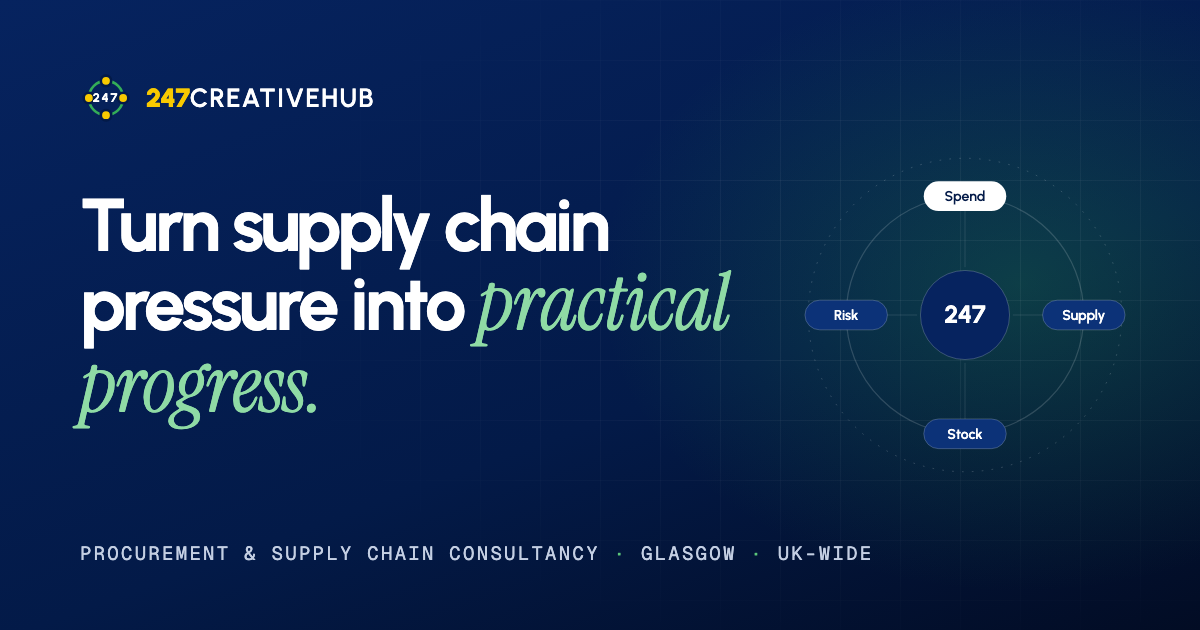
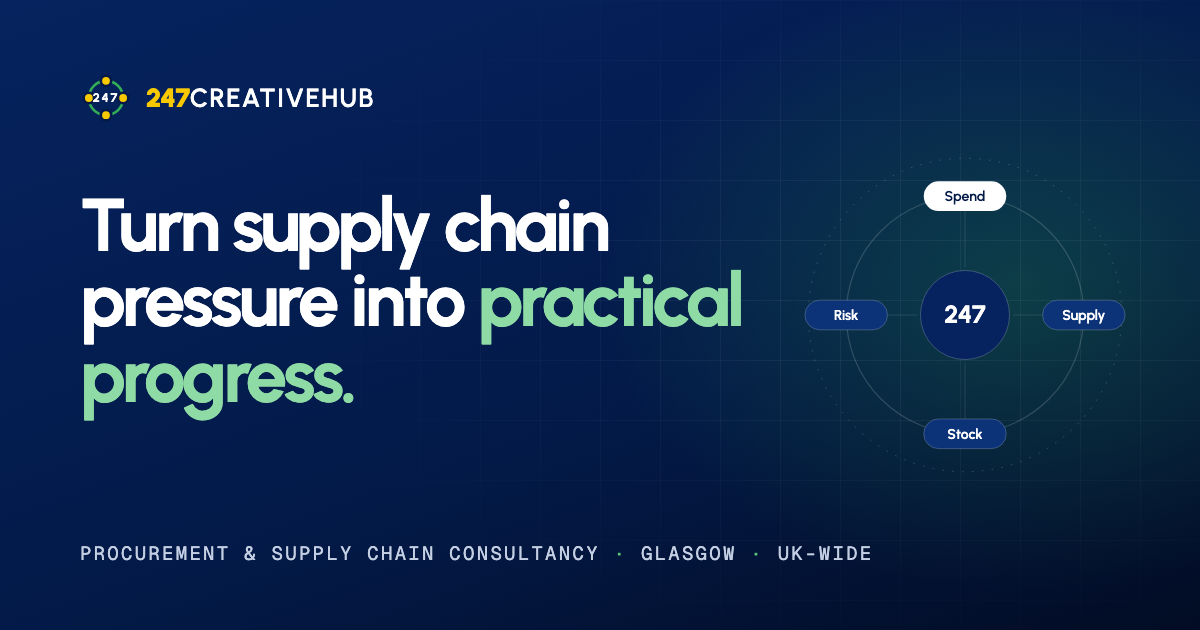
Remove italic heading accents and tighten responsive layout
Typography
- Heading accents ("practical progress.", "costing you?", "Stories remain.")
  now use the same Urbanist face as the rest of the heading; only the
  colour changes. Instrument Serif removed from the site entirely.
- Share image re-rendered to match.

Responsive fixes (audited every page at 320 to 1920px)
- Hero, Challenges and About stay single-column until there is room for
  two (1120px / 1180px / 1120px instead of 1024px), so small laptops and
  tablets in landscape no longer get squeezed columns.
- Process photo caption moves below the image on phones instead of
  covering it.
- Photo band headline is a size smaller on phones.
- Contact email no longer breaks mid-word on 320px screens.
- Slimmer timeline gutter on small phones.
- Footer and text links get 44px tap targets on touch screens.
- Chart caption under the challenges illustration in sentence case.

Checks: no horizontal overflow at any width; 35/35 browser tests pass;
astro check clean; Lighthouse mobile 99/100/100/100.

Changed region(s): [[0.0617, 0.4222, 0.6167, 0.5429], [0.0617, 0.573, 0.3083, 0.6937]]

diff --git a/src/styles/global.css b/src/styles/global.css
@@ -51,7 +51,6 @@
   --font-display: 'Urbanist Variable', 'Figtree Variable', ui-sans-serif, system-ui, sans-serif;
   --font-sans: 'Figtree Variable', ui-sans-serif, system-ui, -apple-system, 'Segoe UI', sans-serif;
   --font-mono: 'Geist Mono Variable', ui-monospace, 'SFMono-Regular', Menlo, monospace;
-  --font-serif: 'Instrument Serif', 'Iowan Old Style', Georgia, serif;
 
   --step--1: 0.875rem;
   --step-0: 1.0625rem;
@@ -230,12 +229,10 @@ p {
   color: var(--green-300);
 }
 
-/* Serif italic accent inside headings */
+/* Colour accent inside headings: same typeface as the heading, only the colour changes */
 .accent {
-  font-family: var(--font-serif);
-  font-style: italic;
-  font-weight: 400;
-  letter-spacing: -0.01em;
+  font: inherit;
+  letter-spacing: inherit;
 }
 
 /* Section header pattern */
@@ -413,6 +410,15 @@ p {
 }
 .text-link:hover {
   background-size: 100% 1px;
+}
+/* Invisible padding so short text links are easy to tap on phones (44px target) */
+.text-link {
+  position: relative;
+}
+.text-link::after {
+  content: '';
+  position: absolute;
+  inset: -9px -4px;
 }
 .text-link .icon {
   transition: transform 0.3s var(--ease-out);

diff --git a/README.md b/README.md
@@ -103,7 +103,7 @@ The previous site was generated with ChatGPT's site builder (Vinext: Vite + Reac
 | --- | --- | --- |
 | Mobile navigation | Desktop nav only, with no menu on small screens | Accessible full-screen menu with focus trap and Escape to close |
 | Contact | Only mailto and WhatsApp links | Validated enquiry form with a real submission path (see above) |
-| Typography | Arial / system fonts | Self-hosted Urbanist (headings), Figtree (body), Instrument Serif (accent) and Geist Mono (chart labels) |
+| Typography | Arial / system fonts | Self-hosted Urbanist (headings), Figtree (body) and Geist Mono (chart labels) |
 | Services | Numbered text cards | Individual illustrations, expandable "What's included", and CTAs that pre-select the service in the form |
 | Outcomes | Four short text items | Illustrative before/after visuals, clearly labelled as not client data |
 | Process | Static list | Timeline that fills as you scroll (horizontal on desktop, vertical on mobile) |
